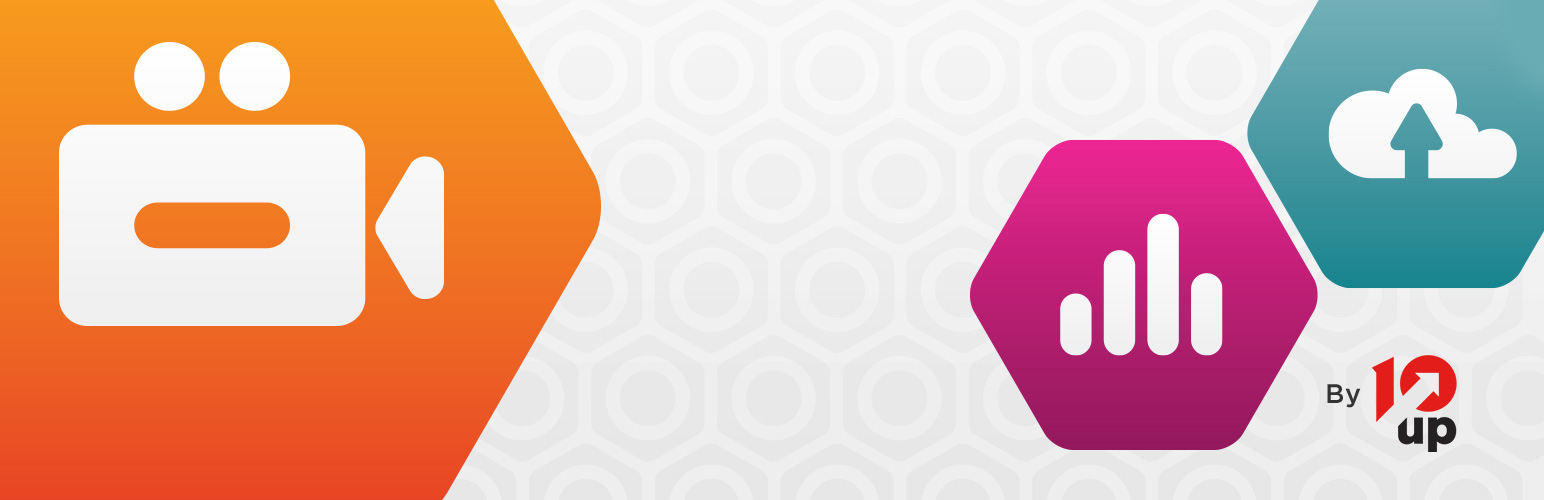
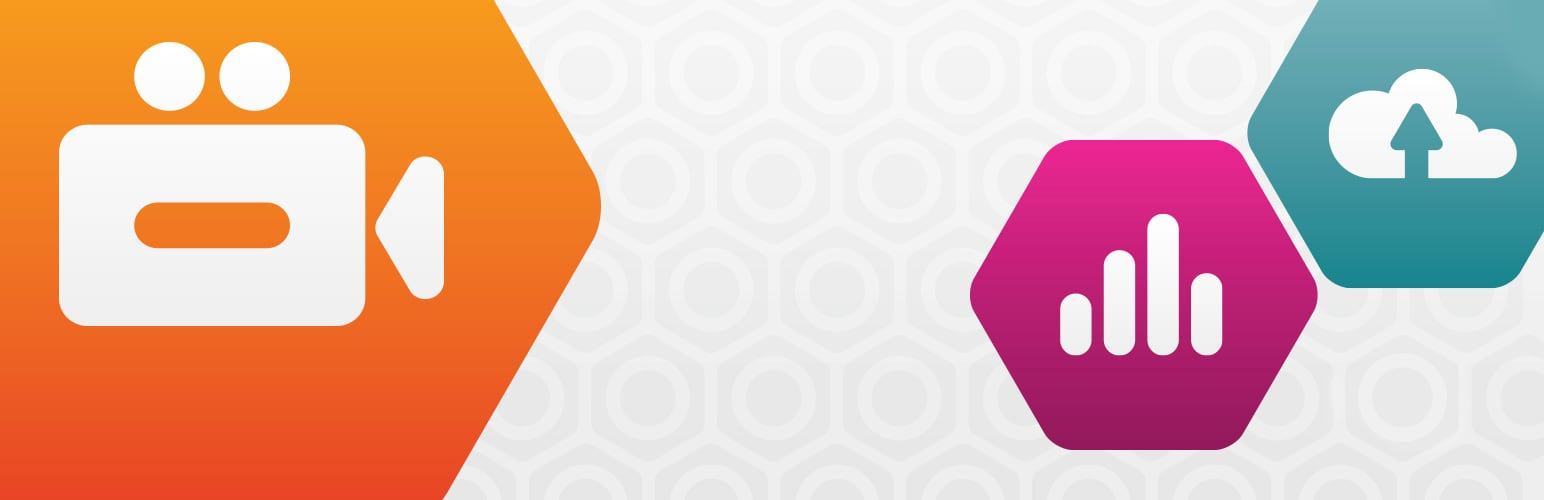
Update/docs assets (#375)

diff --git a/brightcove-video-connect.php b/brightcove-video-connect.php
@@ -1,16 +1,24 @@
 <?php
 /**
- * Plugin Name: Brightcove Video Connect
- * Plugin URI: https://wordpress.org/plugins/brightcove-video-connect/
- * Description: A Brightcove™ Connector for WordPress that leverages enhanced APIs and Brightcove™ Capabilities
- * Version: 2.8.4
- * Author: 10up
- * Author URI: http://10up.com
- * License: GPLv2+
- * Text Domain: brightcove
- * Domain Path: /languages
+ * Brightcove Video Connect
  *
- * @package Brightcove_Video_Connect
+ * @package           Brightcove_Video_Connect
+ * @author            Brightcove
+ * @license           GPL-2.0-or-later
+ *
+ * @wordpress-plugin
+ * Plugin Name:       Brightcove Video Connect
+ * Plugin URI:        https://wordpress.org/plugins/brightcove-video-connect/
+ * Description:       A Brightcove™ Connector for WordPress that leverages enhanced APIs and Brightcove™ Capabilities
+ * Version:           2.8.4
+ * Requires at least: 4.2
+ * Requires PHP:
+ * Author:            Brightcove
+ * Author URI:        https://brightcove.com
+ * Text Domain:       brightcove
+ * License:           GPLv2+
+ * License URI:       http://www.gnu.org/licenses/gpl-2.0.html
+ * Domain Path:       /languages
  */
 
 /**

diff --git a/README.md b/README.md
@@ -8,7 +8,7 @@
 
 Are you looking to handle your [Brightcove](https://www.brightcove.com/en/online-video-platform) Video and Playlist library natively from within WordPress?
 
-With this plugin, developed by [10up](http://10up.com), you have the power to handle multiple accounts and video libraries, upload videos and add them to playlists, render shortcodes with your videos and all from within the WordPress admin interface.
+With this plugin, you have the power to handle multiple accounts and video libraries, upload videos and add them to playlists, render shortcodes with your videos and all from within the WordPress admin interface.
 
 ## Support Notice
 
@@ -115,7 +115,7 @@ However, in order for it to work you need to make sure you have multiple audio t
 
 ## Support Level
 
-**Active:** 10up is actively working on this, and we expect to continue work for the foreseeable future including keeping tested up to the most recent version of WordPress.  Bug reports, feature requests, questions, and pull requests are welcome.
+**Active:** Brightcove is actively working on this, and we expect to continue work for the foreseeable future including keeping tested up to the most recent version of WordPress.  Bug reports, feature requests, questions, and pull requests are welcome.
 
 ## Changelog
 
